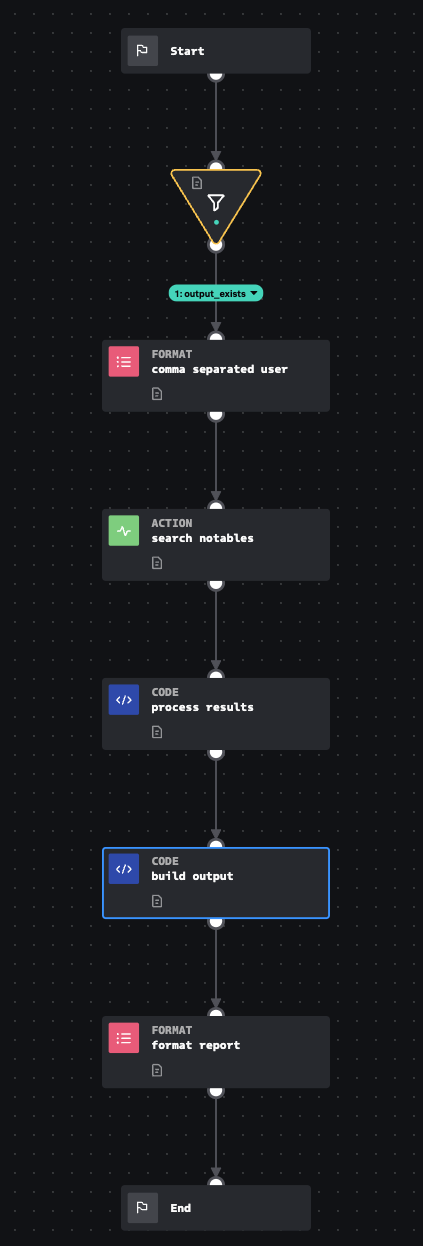
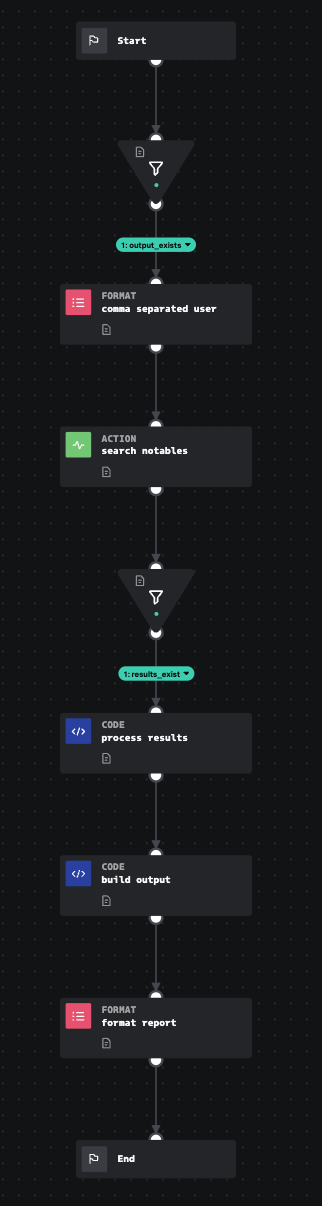
Updating to keep in sync w/ phantomcyber/playbooks

Changed region(s): [[0.1863, 0.0, 0.8075, 1.0]]

diff --git a/playbooks/Splunk_Notable_Related_Tickets_Search.py b/playbooks/Splunk_Notable_Related_Tickets_Search.py
@@ -82,7 +82,7 @@ def search_notables(action=None, success=None, container=None, results=None, han
     ## Custom Code End
     ################################################################################
 
-    phantom.act("run query", parameters=parameters, name="search_notables", assets=["splunk"], callback=process_results)
+    phantom.act("run query", parameters=parameters, name="search_notables", assets=["splunk"], callback=search_results_filter)
 
     return
 
@@ -147,15 +147,15 @@ def build_output(action=None, success=None, container=None, results=None, handle
             observable_object = {
                 "value": key,
                 "ticket": {
-                    "name": result["search_name"],
-                    "id": result["event_id"],
+                    "name": result['rule_title'] if result.get('rule_title') else result.get("search_name"),
+                    "id": result.get("event_id"),
                     "number": result.get("notable_xref_id"),
-                    "message": result["savedsearch_description"],
-                    "start_time": result["_time"],
+                    "message": result['rule_description'] if result.get("rule_description") else result.get("savedsearch_description"),
+                    "start_time": result.get("_time"),
                     "end_time": "",
-                    "assigned_to": result["owner"],
+                    "assigned_to": result.get("owner"),
                     "creator_name": "",
-                    "state": result["status_label"],
+                    "state": result.get("status_label"),
                     "notes": [],
                     "comments": comments
                 },
@@ -163,15 +163,15 @@ def build_output(action=None, success=None, container=None, results=None, handle
                 "source": "Splunk Enterprise Security"
             }
             build_output__observable_array.append(observable_object)
-            build_output__name.append(result["search_name"])
-            build_output__id.append(result["event_id"])
+            build_output__name.append(result.get("search_name"))
+            build_output__id.append(result.get("event_id"))
             build_output__number.append(result.get("notable_xref_id"))
-            build_output__message.append(result["savedsearch_description"])
-            build_output__start_time.append(result["_time"])
+            build_output__message.append(result.get("savedsearch_description"))
+            build_output__start_time.append(result.get("_time"))
             build_output__end_time.append("")
-            build_output__assignee.append(result["owner"])
+            build_output__assignee.append(result.get("owner"))
             build_output__creator_name.append("")
-            build_output__state.append(result["status_label"])
+            build_output__state.append(result.get("status_label"))
             build_output__notes.append([])
             build_output__comments.append(comments)
         
@@ -277,10 +277,10 @@ def process_results(action=None, success=None, container=None, results=None, han
     ################################################################################
 
     filtered_input_0_search_term = phantom.collect2(container=container, datapath=["filtered-data:input_filter:condition_1:playbook_input:search_term"])
-    search_notables_result_data = phantom.collect2(container=container, datapath=["search_notables:action_result.data"], action_results=results)
+    filtered_result_0_data_search_results_filter = phantom.collect2(container=container, datapath=["filtered-data:search_results_filter:condition_1:search_notables:action_result.data"])
 
     filtered_input_0_search_term_values = [item[0] for item in filtered_input_0_search_term]
-    search_notables_result_item_0 = [item[0] for item in search_notables_result_data]
+    filtered_result_0_data = [item[0] for item in filtered_result_0_data_search_results_filter]
 
     process_results__output = None
 
@@ -291,7 +291,7 @@ def process_results(action=None, success=None, container=None, results=None, han
     process_results__output = {}
     for search_term in filtered_input_0_search_term_values:
         process_results__output[search_term] = []
-        for result in search_notables_result_item_0:
+        for result in filtered_result_0_data:
             if not isinstance(result, list):
                 list_result = [result]
             else:
@@ -313,6 +313,29 @@ def process_results(action=None, success=None, container=None, results=None, han
     phantom.save_run_data(key="process_results:output", value=json.dumps(process_results__output))
 
     build_output(container=container)
+
+    return
+
+
+@phantom.playbook_block()
+def search_results_filter(action=None, success=None, container=None, results=None, handle=None, filtered_artifacts=None, filtered_results=None, custom_function=None, **kwargs):
+    phantom.debug("search_results_filter() called")
+
+    ################################################################################
+    # Determine if search results exist from the previous query.
+    ################################################################################
+
+    # collect filtered artifact ids and results for 'if' condition 1
+    matched_artifacts_1, matched_results_1 = phantom.condition(
+        container=container,
+        conditions=[
+            ["search_notables:action_result.summary.total_events", ">", 0]
+        ],
+        name="search_results_filter:condition_1")
+
+    # call connected blocks if filtered artifacts or results
+    if matched_artifacts_1 or matched_results_1:
+        process_results(action=action, success=success, container=container, results=results, handle=handle, filtered_artifacts=matched_artifacts_1, filtered_results=matched_results_1)
 
     return
 

diff --git a/playbooks/ServiceNow_Related_Tickets_Search.py b/playbooks/ServiceNow_Related_Tickets_Search.py
@@ -256,7 +256,7 @@ def build_output(action=None, success=None, container=None, results=None, handle
                     "name": value["short_description"],
                     "id": value["sys_id"],
                     "number": value["number"],
-                    "message": value["description"],
+                    "message": json.dumps(value["description"]),
                     "start_time": value["sys_created_on"],
                     "end_time": value["closed_at"],
                     "assigned_to": assigned_to,
